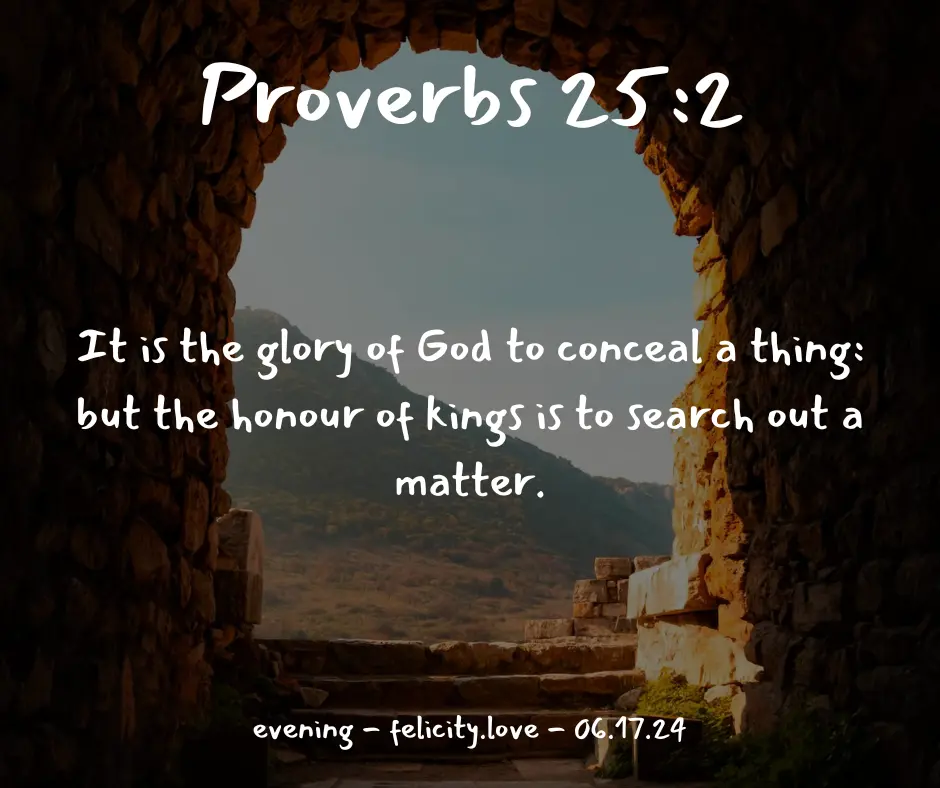
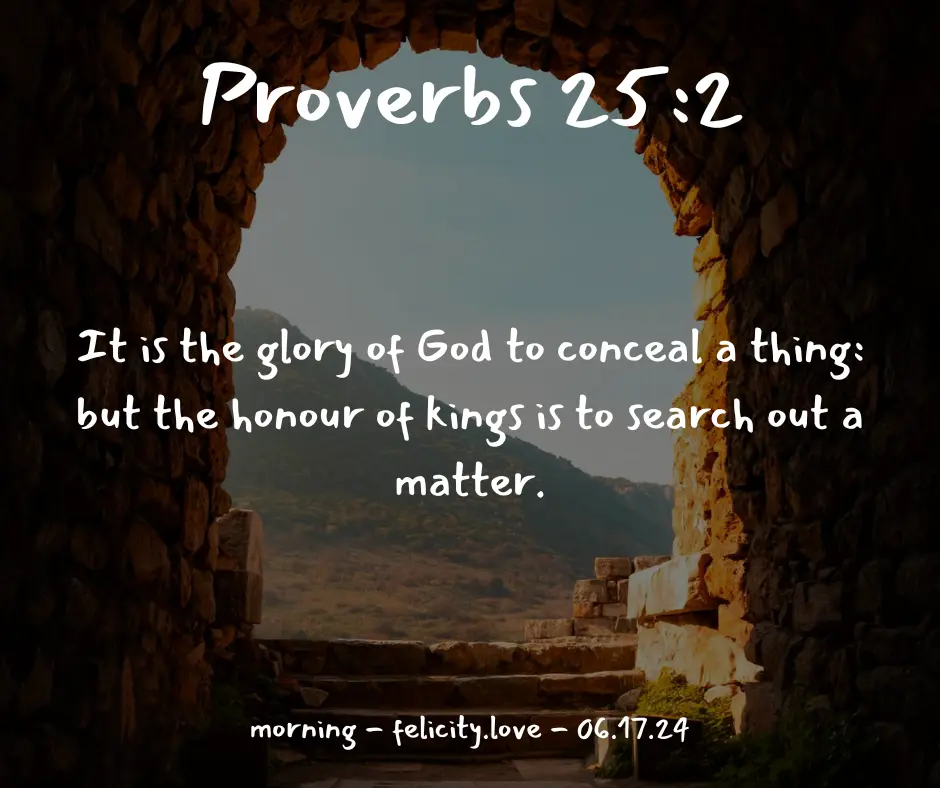
june 17th 2024 evening devotional

Changed region(s): [[0.2468, 0.9137, 0.7404, 0.9442]]

diff --git a/_posts/2024-06-17-evening.md b/_posts/2024-06-17-evening.md
@@ -1,0 +1,19 @@
+---
+layout: post
+author: Joey
+date: 2024-06-17 16:20:00 -0500
+featured_image: "/img/061724_daily_devotional_night.webp"
+title: June 17th 2024 - Evening Devotional
+---
+
+[![June 17th 2024 - Evening Devotional](/img/061724_daily_devotional_night.webp)](/img/061724_daily_devotional_night.webp)
+
+Proverbs 28:1
+
+The wicked flee when no man pursueth: but the righteous are bold as a lion.
+
+<hr>
+
+Please consider purchasing a mug to support the page by clicking the image below, thank you!
+
+[![June 17th 2024 - Evening Devotional - Mug](/img/mugs/061124_morning_mug.webp)](https://www.joeybrinkman.com/shop)
